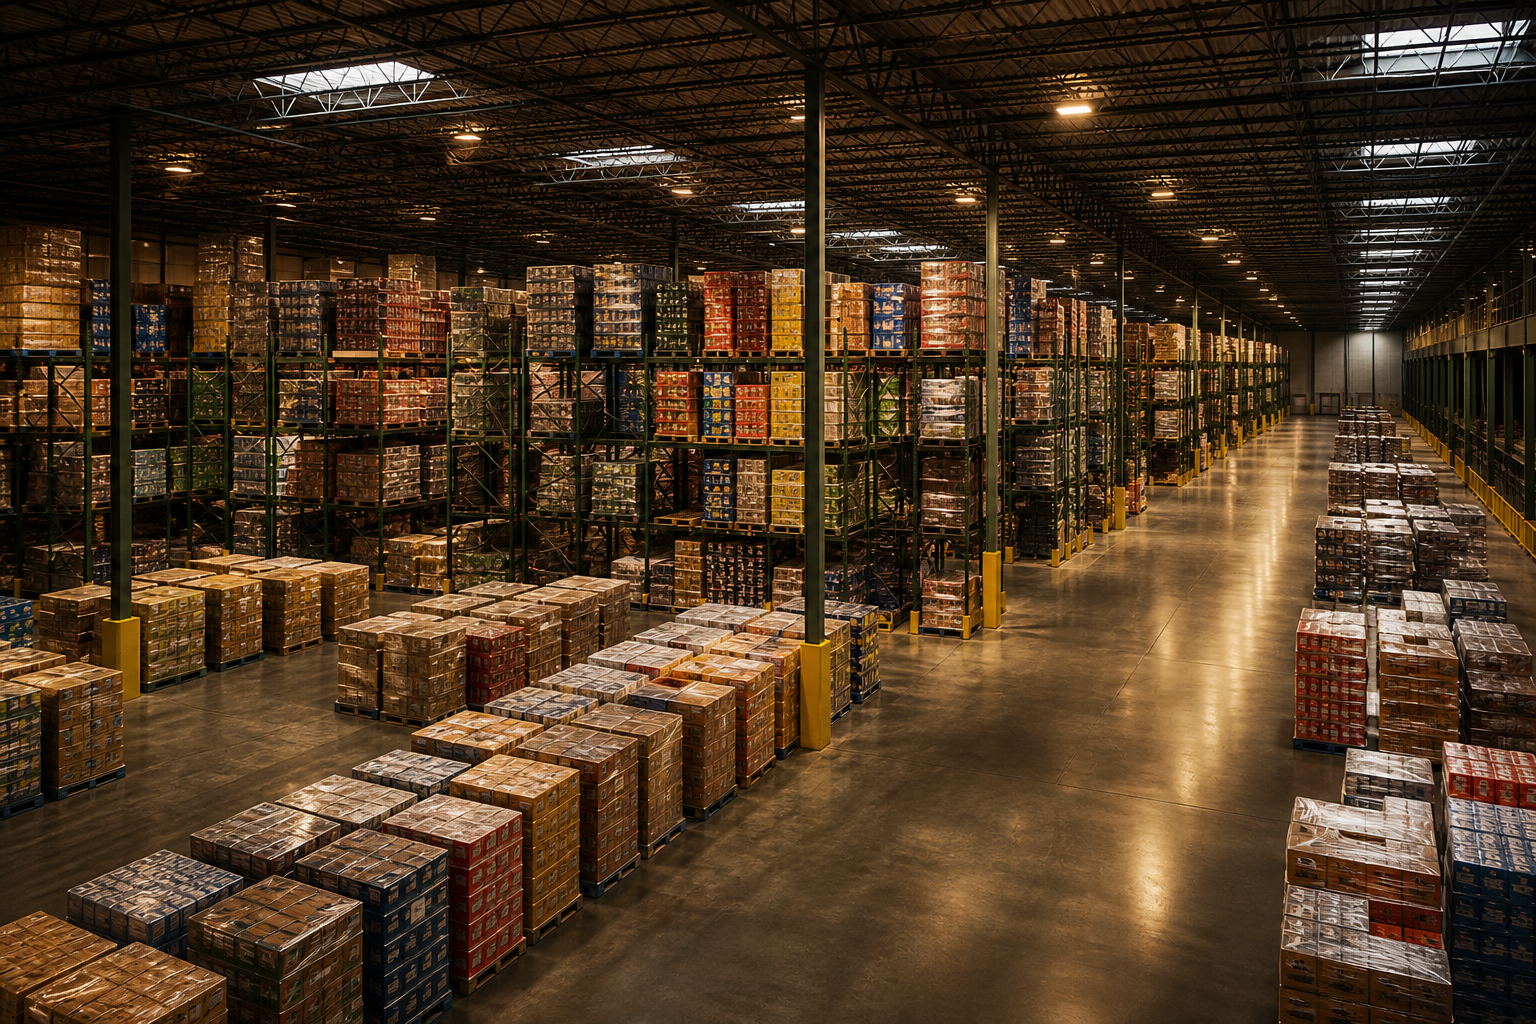
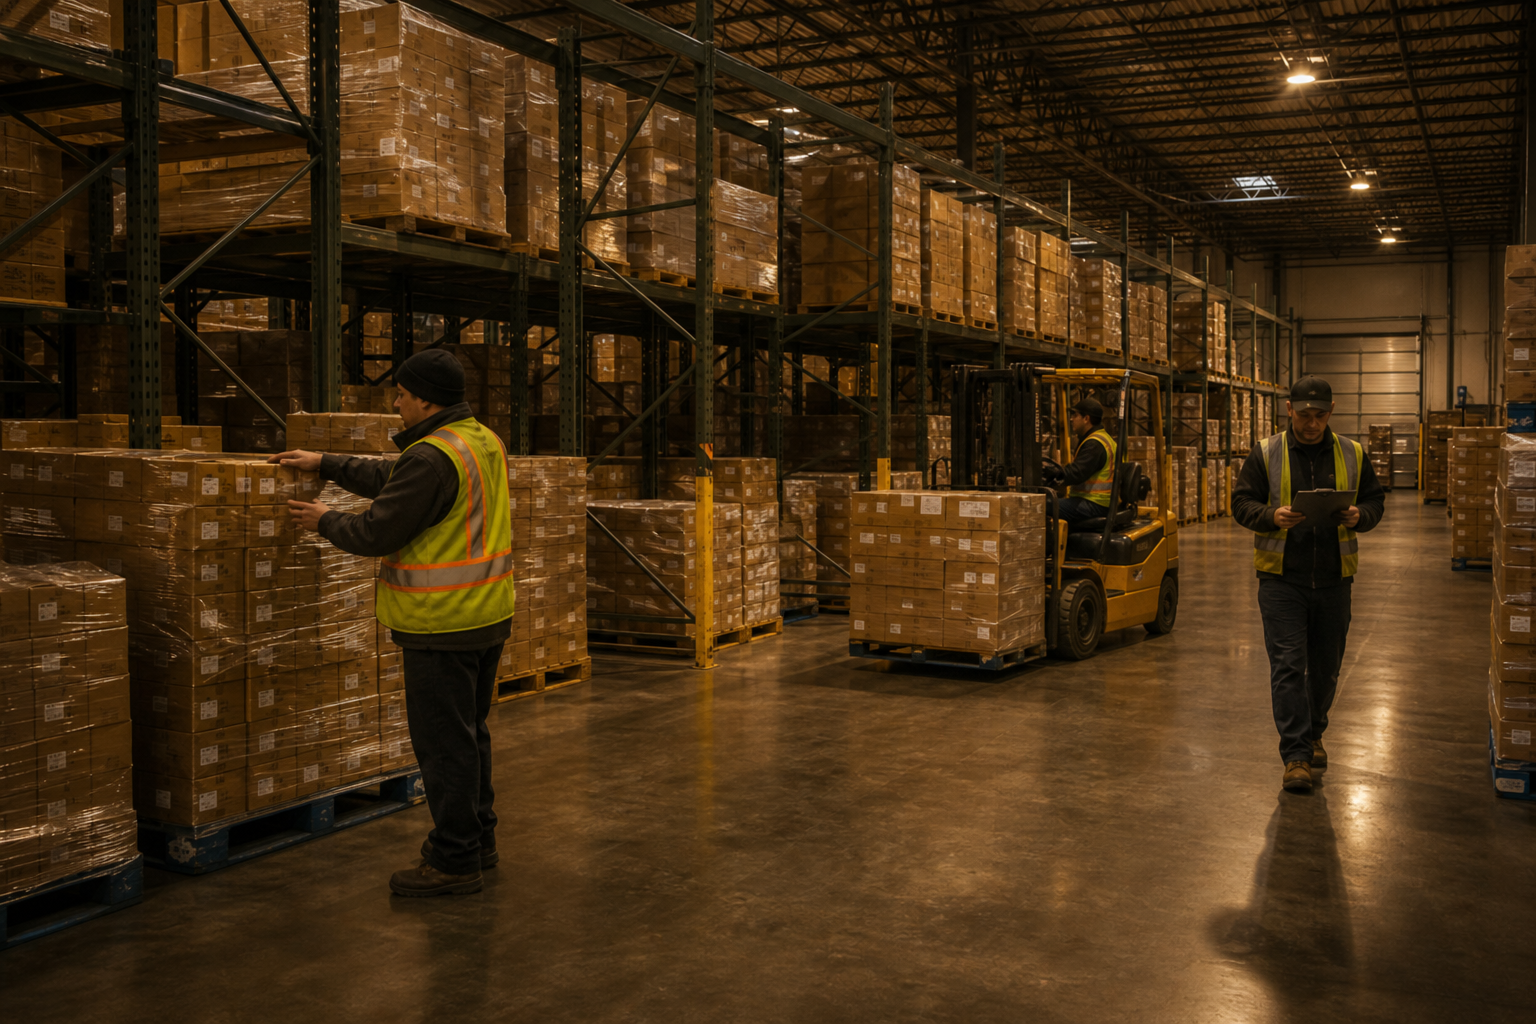
Home as product merchant; warmer warehouse hero with people and a forklift.

diff --git a/es/index.html b/es/index.html
@@ -3,8 +3,8 @@
 <head>
   <meta charset="utf-8" />
   <meta name="viewport" content="width=device-width, initial-scale=1" />
-  <title>GLOBANZER LLC — Revendedor autorizado</title>
-  <meta name="description" content="GLOBANZER LLC. Revendedor autorizado en Florida. Compramos por programas mayoristas y servimos al consumidor final. EIN en expediente. Orlando." />
+  <title>GLOBANZER LLC — Comercializadora</title>
+  <meta name="description" content="GLOBANZER LLC. Comercializadora en Florida. Comercializamos producto en Estados Unidos con relaciones autorizadas de marca y suministro. Orlando." />
   <link rel="preconnect" href="https://fonts.googleapis.com" />
   <link rel="preconnect" href="https://fonts.gstatic.com" crossorigin />
   <link href="https://fonts.googleapis.com/css2?family=Cormorant+Garamond:ital,wght@0,500;0,600;1,500&family=Outfit:wght@300;400;500;600&display=swap" rel="stylesheet" />
@@ -35,14 +35,14 @@
   <section class="hero" id="top">
     <div class="hero-veil"></div>
     <div class="hero-inner">
-      <p class="eyebrow">Orlando · Florida LLC · Revendedor autorizado</p>
+      <p class="eyebrow">Orlando · Florida LLC · Comercializadora</p>
       <h1>Un nombre.<br />Una forma de comprar.</h1>
       <p class="lede">
-        GLOBANZER LLC es un comerciante en Estados Unidos. Abrimos cuentas con distribuidores y dueños de marca autorizados,
-        compramos a través de sus programas mayoristas y llevamos el producto al consumidor final — respetando MAP y fuera del mercado gris.
+        GLOBANZER LLC es una comercializadora en Estados Unidos. Trabajamos con dueños de marca y proveedores autorizados,
+        comercializamos producto en el mercado estadounidense y sostenemos el MAP — el mercado gris queda fuera de la casa.
       </p>
       <div class="hero-actions">
-        <a class="btn" href="mailto:Contact.us@globanzer.com?subject=Consulta%20revendedor%20autorizado">Solicitar una conversación</a>
+        <a class="btn" href="mailto:Contact.us@globanzer.com?subject=Consulta%20comercial">Solicitar una conversación</a>
         <a class="btn-ghost" href="#file">Expediente societario</a>
       </div>
     </div>
@@ -82,7 +82,7 @@
   <section class="campus">
     <div class="campus-veil"></div>
     <blockquote>
-      <p>“El nombre de un revendedor es una promesa en público: una identidad, un expediente fiscal, una forma de comprar.”</p>
+      <p>“El nombre de una comercializadora es una promesa en público: una identidad, un expediente fiscal, una forma de comprar.”</p>
       <cite>GLOBANZER LLC</cite>
     </blockquote>
   </section>
@@ -105,7 +105,7 @@
   <footer>
     <div>
       <strong>GLOBANZER LLC</strong>
-      <p>Revendedor autorizado. Estados Unidos.</p>
+      <p>Comercializadora. Estados Unidos.</p>
     </div>
     <p class="copy">© 2026 GLOBANZER LLC. Todos los derechos reservados.</p>
   </footer>

diff --git a/index.html b/index.html
@@ -3,8 +3,8 @@
 <head>
   <meta charset="utf-8" />
   <meta name="viewport" content="width=device-width, initial-scale=1" />
-  <title>GLOBANZER LLC — Authorized Reseller</title>
-  <meta name="description" content="GLOBANZER LLC. Florida authorized reseller. We purchase through wholesale programs and serve end consumers. EIN on file. Orlando." />
+  <title>GLOBANZER LLC — Product Merchant</title>
+  <meta name="description" content="GLOBANZER LLC. Florida product merchant. We commercialize goods in the United States with authorized brand and supplier relationships. Orlando." />
   <link rel="preconnect" href="https://fonts.googleapis.com" />
   <link rel="preconnect" href="https://fonts.gstatic.com" crossorigin />
   <link href="https://fonts.googleapis.com/css2?family=Cormorant+Garamond:ital,wght@0,500;0,600;1,500&family=Outfit:wght@300;400;500;600&display=swap" rel="stylesheet" />
@@ -35,14 +35,14 @@
   <section class="hero" id="top">
     <div class="hero-veil"></div>
     <div class="hero-inner">
-      <p class="eyebrow">Orlando · Florida LLC · Authorized reseller</p>
+      <p class="eyebrow">Orlando · Florida LLC · Product merchant</p>
       <h1>One name.<br />One way of buying.</h1>
       <p class="lede">
-        GLOBANZER LLC is a U.S. merchant. We open accounts with authorized distributors and brand owners,
-        purchase through their wholesale programs, and place products with end consumers — with MAP respected and grey markets out.
+        GLOBANZER LLC is a U.S. product merchant. We work with brand owners and authorized suppliers,
+        commercialize goods in the United States, and keep MAP intact — grey-market supply stays outside the house.
       </p>
       <div class="hero-actions">
-        <a class="btn" href="mailto:Contact.us@globanzer.com?subject=Authorized%20reseller%20inquiry">Request a conversation</a>
+        <a class="btn" href="mailto:Contact.us@globanzer.com?subject=Commercial%20inquiry">Request a conversation</a>
         <a class="btn-ghost" href="#file">Company file</a>
       </div>
     </div>
@@ -82,7 +82,7 @@
   <section class="campus">
     <div class="campus-veil"></div>
     <blockquote>
-      <p>“A reseller’s name is a promise kept in public: one identity, one tax file, one way of buying.”</p>
+      <p>“A merchant’s name is a promise kept in public: one identity, one tax file, one way of buying.”</p>
       <cite>GLOBANZER LLC</cite>
     </blockquote>
   </section>
@@ -105,7 +105,7 @@
   <footer>
     <div>
       <strong>GLOBANZER LLC</strong>
-      <p>Authorized reseller. United States.</p>
+      <p>Product merchant. United States.</p>
     </div>
     <p class="copy">© 2026 GLOBANZER LLC. All rights reserved.</p>
   </footer>
